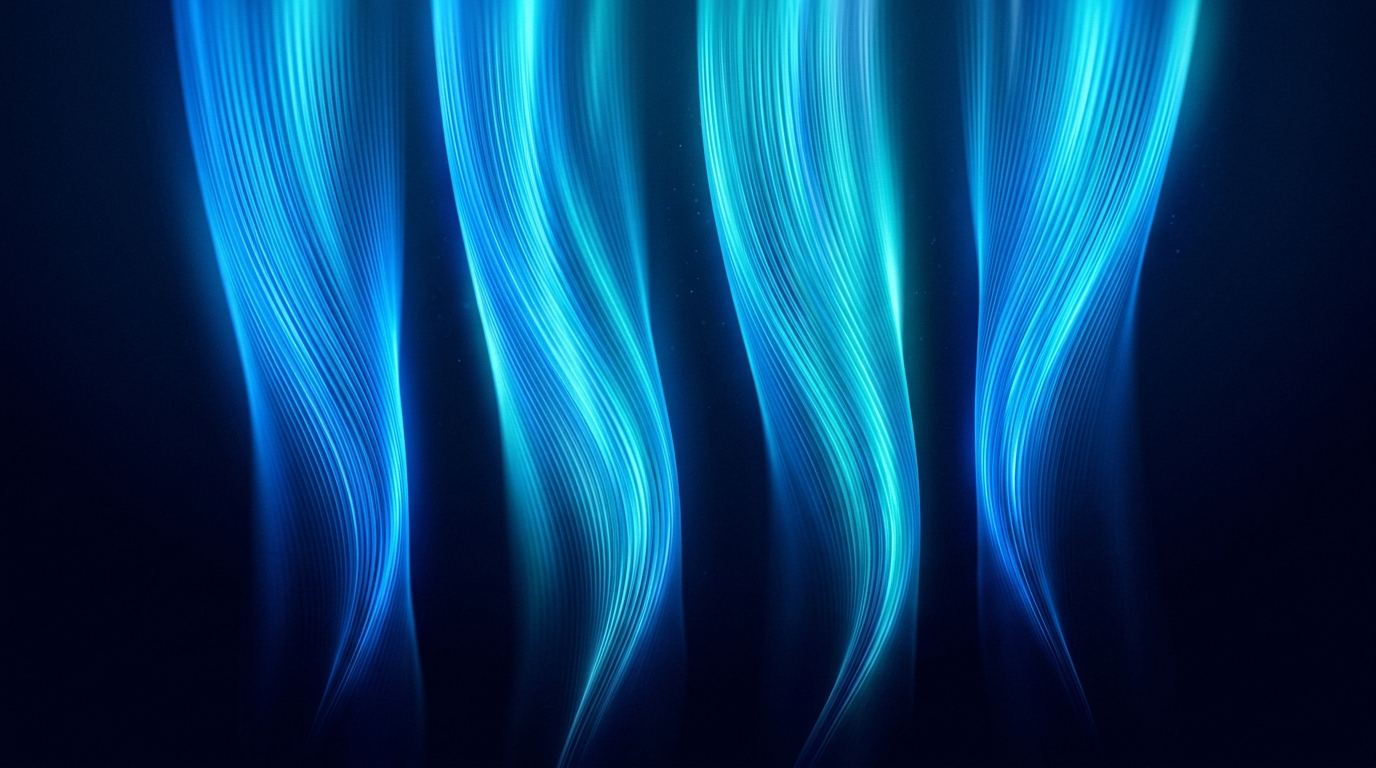
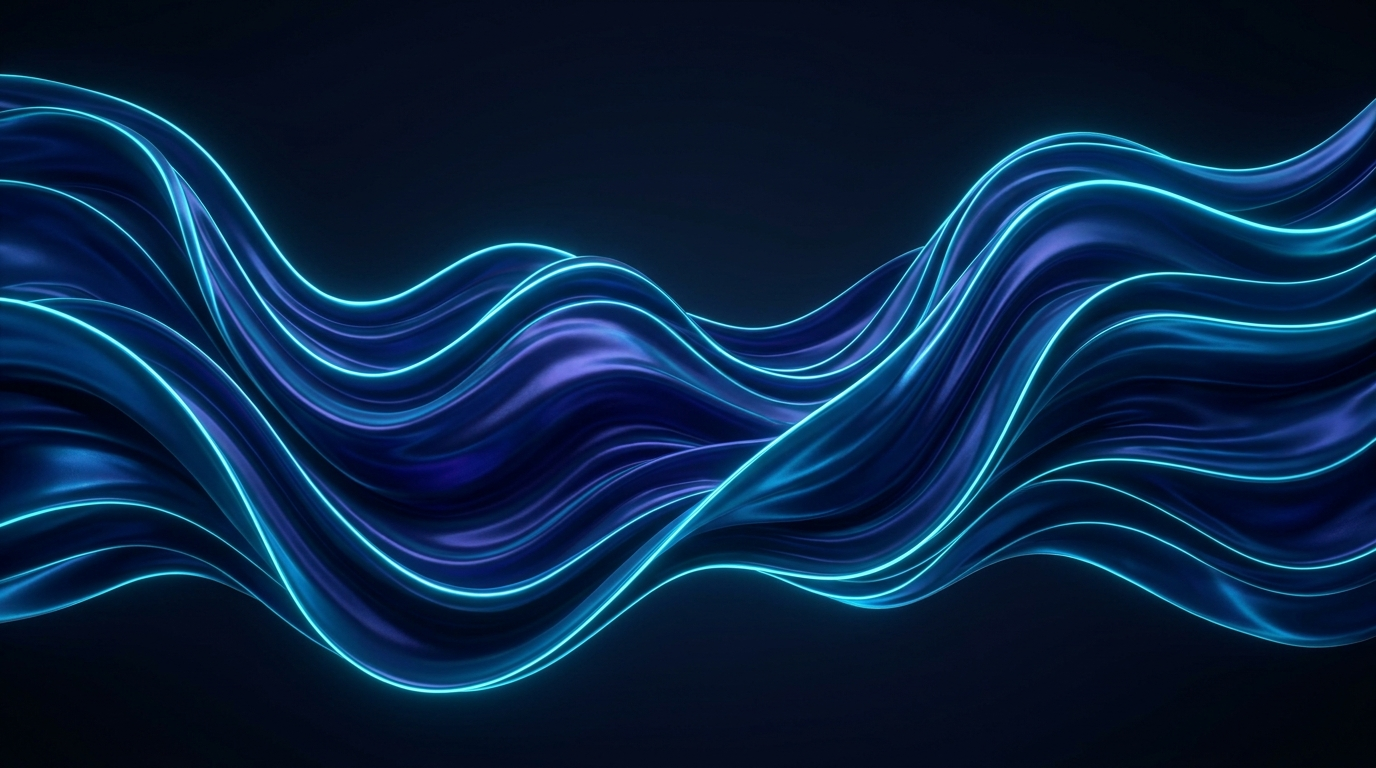
feat: make card section backgrounds full-screen edge-to-edge with improved panoramic liquid silk graphics

diff --git a/app/src/app/page.tsx b/app/src/app/page.tsx
@@ -70,19 +70,21 @@ export default function Home() {
         </div>
       </section>
 
-      {/* SECTION 1B: SHOWCASE GLASS CARDS (EXACT REFERENCE LAYOUT & DESIGNING) */}
-      <section className="relative py-16 max-w-7xl mx-auto px-4 sm:px-8 mb-16 overflow-hidden rounded-[44px]">
-        {/* Swirling Silky Blue Ribbon Background Layer */}
-        <div className="absolute inset-0 -z-10 pointer-events-none overflow-hidden rounded-[44px]">
+      {/* SECTION 1B: SHOWCASE GLASS CARDS (FULL-SCREEN EDGE-TO-EDGE BACKGROUND) */}
+      <section className="relative w-full py-24 border-y border-white/[0.08] overflow-hidden my-8">
+        {/* Full-Screen Edge-to-Edge Silky Blue Ribbon Background Layer */}
+        <div className="absolute inset-0 -z-10 pointer-events-none overflow-hidden">
           <div 
             className="absolute inset-0 bg-cover bg-center bg-no-repeat opacity-85 scale-105"
             style={{ backgroundImage: `url('/blue-ribbon-vortex-bg.jpg')` }}
           />
-          <div className="absolute inset-0 bg-gradient-to-b from-[#050814]/30 via-[#050814]/10 to-[#050814]/40" />
+          <div className="absolute inset-0 bg-gradient-to-b from-[#050814]/40 via-transparent to-[#050814]/50" />
+          <div className="absolute inset-0 backdrop-blur-[1px]" />
         </div>
 
-        {/* 3-Column Exact Reference Glassmorphic Cards Grid */}
-        <div className="grid grid-cols-1 md:grid-cols-2 lg:grid-cols-3 gap-7">
+        <div className="max-w-7xl mx-auto px-4 sm:px-8 relative z-10">
+          {/* 3-Column Exact Reference Glassmorphic Cards Grid */}
+          <div className="grid grid-cols-1 md:grid-cols-2 lg:grid-cols-3 gap-7">
           
           {/* Card 1: Reference Design Master Card */}
           <div className="glass-card-reference p-7 sm:p-9 flex flex-col justify-between min-h-[480px] relative group">
@@ -207,6 +209,7 @@ export default function Home() {
             </div>
           </div>
 
+        </div>
         </div>
       </section>
 
@@ -475,15 +478,16 @@ export default function Home() {
         </div>
       </section>
 
-      {/* SECTION 4: HOW IT WORKS / 4-STEP TIMELINE (EXACT LUMINOUS GRADIENT CARD DESIGN) */}
-      <section className="relative py-24 max-w-7xl mx-auto px-4 sm:px-8 my-16 overflow-hidden rounded-[44px]">
-        {/* Luminous Gradient Aurora Curtains Background Layer */}
-        <div className="absolute inset-0 -z-10 pointer-events-none overflow-hidden rounded-[44px]">
+      {/* SECTION 4: HOW IT WORKS / 4-STEP TIMELINE (FULL-SCREEN EDGE-TO-EDGE BACKGROUND) */}
+      <section className="relative w-full py-28 border-y border-white/[0.08] overflow-hidden my-8">
+        {/* Full-Screen Edge-to-Edge Luminous Silky Drapery Background */}
+        <div className="absolute inset-0 -z-10 pointer-events-none overflow-hidden">
           <div 
-            className="absolute inset-0 bg-cover bg-center bg-no-repeat opacity-85 scale-105"
+            className="absolute inset-0 bg-cover bg-center bg-no-repeat opacity-90 scale-105"
             style={{ backgroundImage: `url('/luminous-gradient-bg.jpg')` }}
           />
-          <div className="absolute inset-0 bg-gradient-to-b from-[#050814]/35 via-transparent to-[#050814]/45" />
+          <div className="absolute inset-0 bg-gradient-to-b from-[#050814]/40 via-transparent to-[#050814]/50" />
+          <div className="absolute inset-0 backdrop-blur-[1px]" />
         </div>
 
         <div className="space-y-12 relative z-10">
